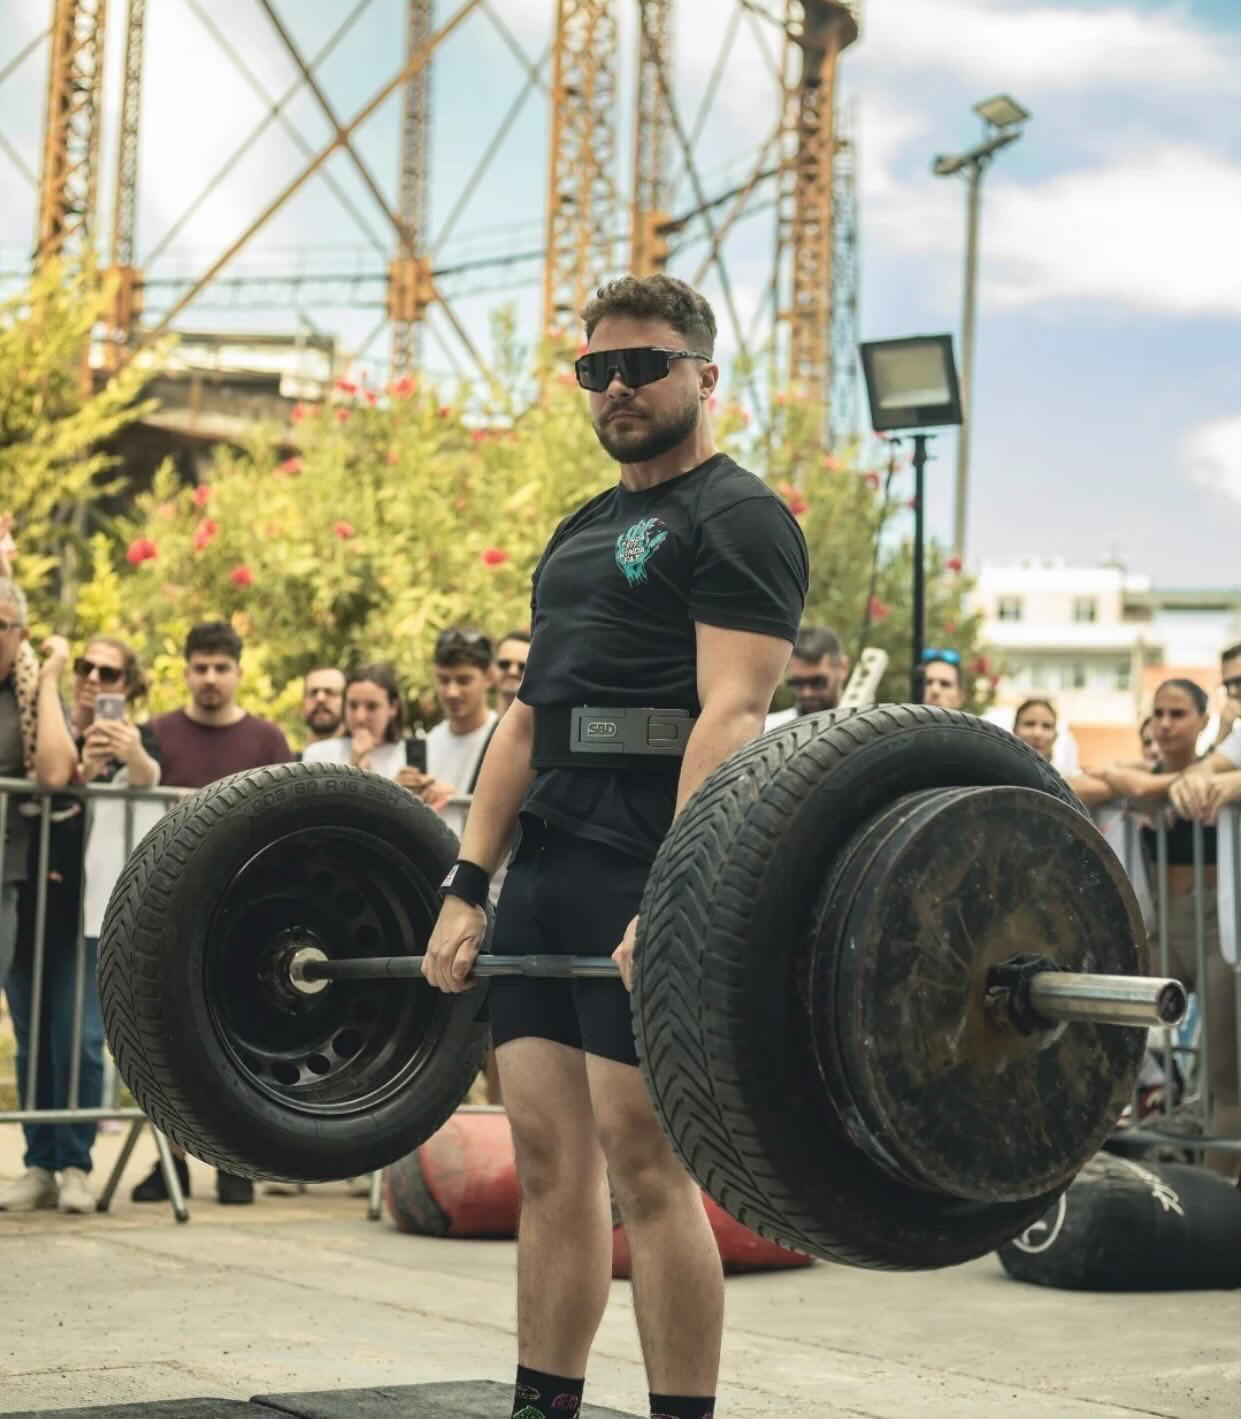
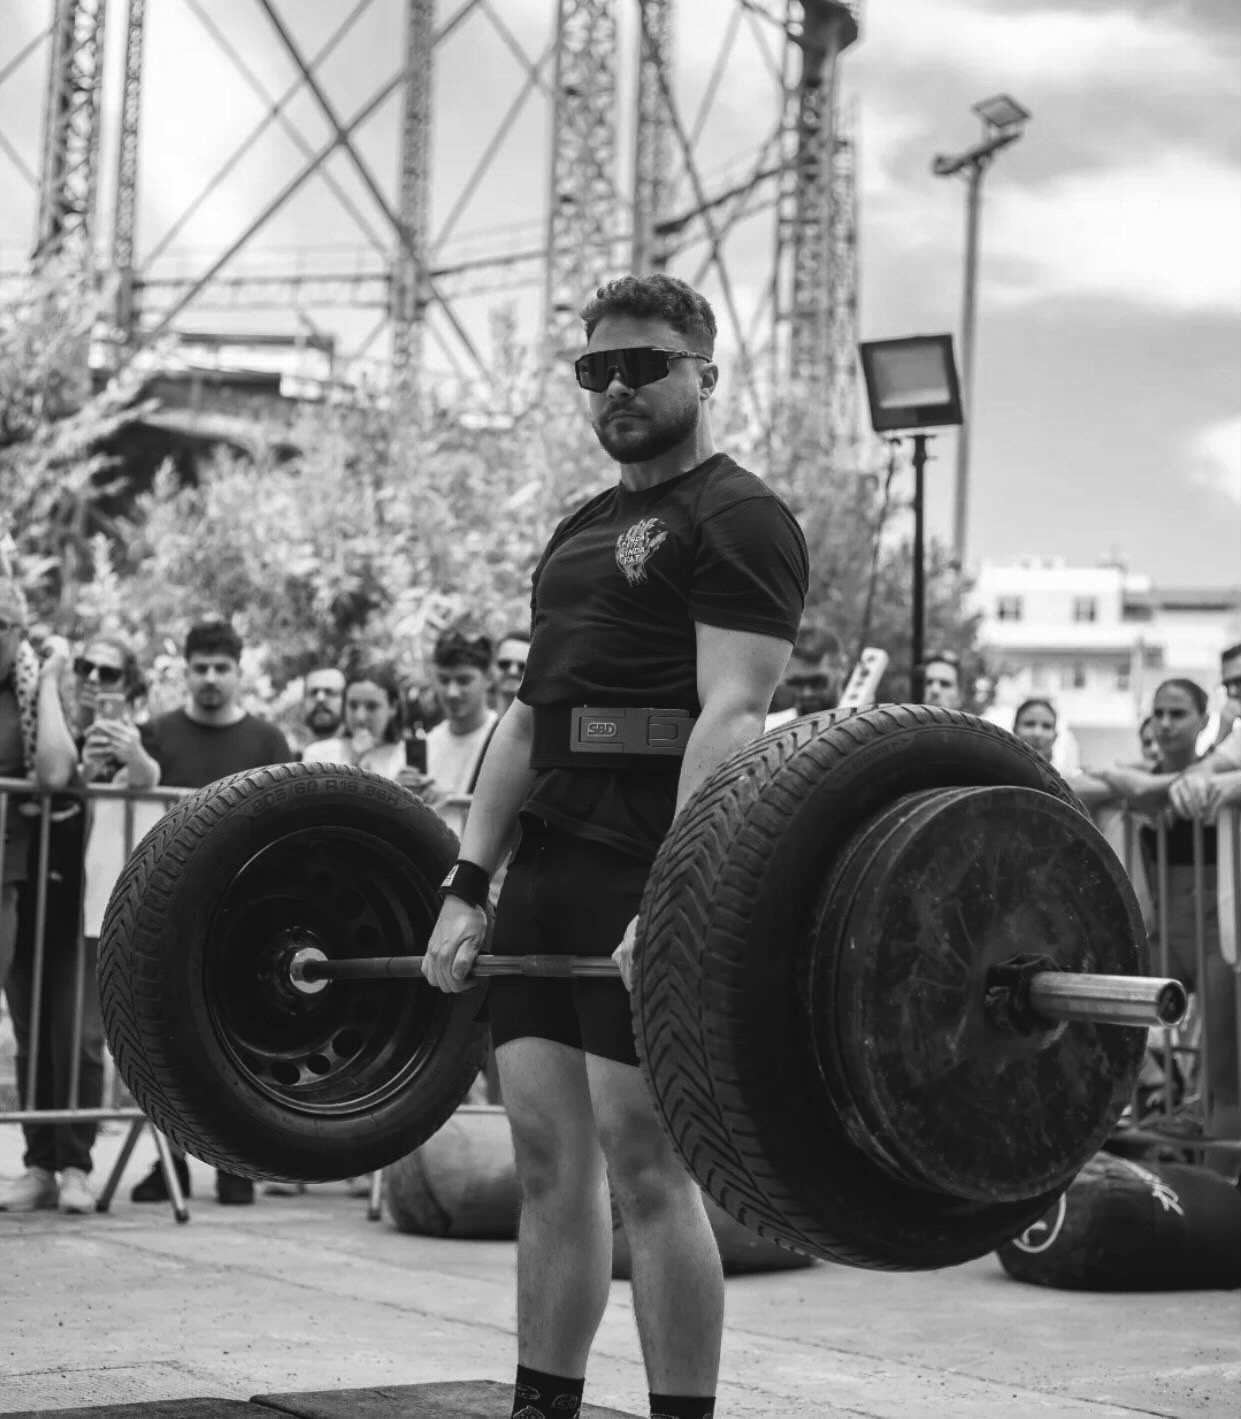
Bake grayscale into new coach photos
- Convert anastasia/alkmini/thomas images to grayscale
- Drop the ineffective CSS grayscale filter plumbing

diff --git a/components/Homepage/Personnel/Personnel.jsx b/components/Homepage/Personnel/Personnel.jsx
@@ -64,7 +64,6 @@ const members = [
     imageSrc: anastasia,
     slogan: 'Less drama, more yoga',
     color: 'yellow',
-    grayscale: true,
   },
   {
     id: 9,
@@ -73,7 +72,6 @@ const members = [
     imageSrc: alkmini,
     slogan: '..baby one more rep!',
     color: 'yellow',
-    grayscale: true,
   },
   {
     id: 10,
@@ -82,7 +80,6 @@ const members = [
     imageSrc: thomas,
     slogan: "Because carrying groceries in one trip wasn't challenging enough!",
     color: 'yellow',
-    grayscale: true,
   },
 ];
 
@@ -117,7 +114,6 @@ const Personnel = () => {
             slogan={member.slogan}
             instaLink={member.instaLink}
             color={member.color}
-            grayscale={member.grayscale}
           />
         ))}
       </div>

diff --git a/components/Homepage/PersonnelCard/PersonnelCard.jsx b/components/Homepage/PersonnelCard/PersonnelCard.jsx
@@ -10,7 +10,6 @@ const PersonnelCard = ({
   instaLink,
   imageSrc,
   color,
-  grayscale,
 }) => {
   return (
     <div className={styles.compWrap}>
@@ -22,7 +21,6 @@ const PersonnelCard = ({
             src={imageSrc}
             width={260}
             height={260}
-            style={grayscale ? { filter: 'grayscale(1)' } : undefined}
           />
         </div>
         {instaLink && (